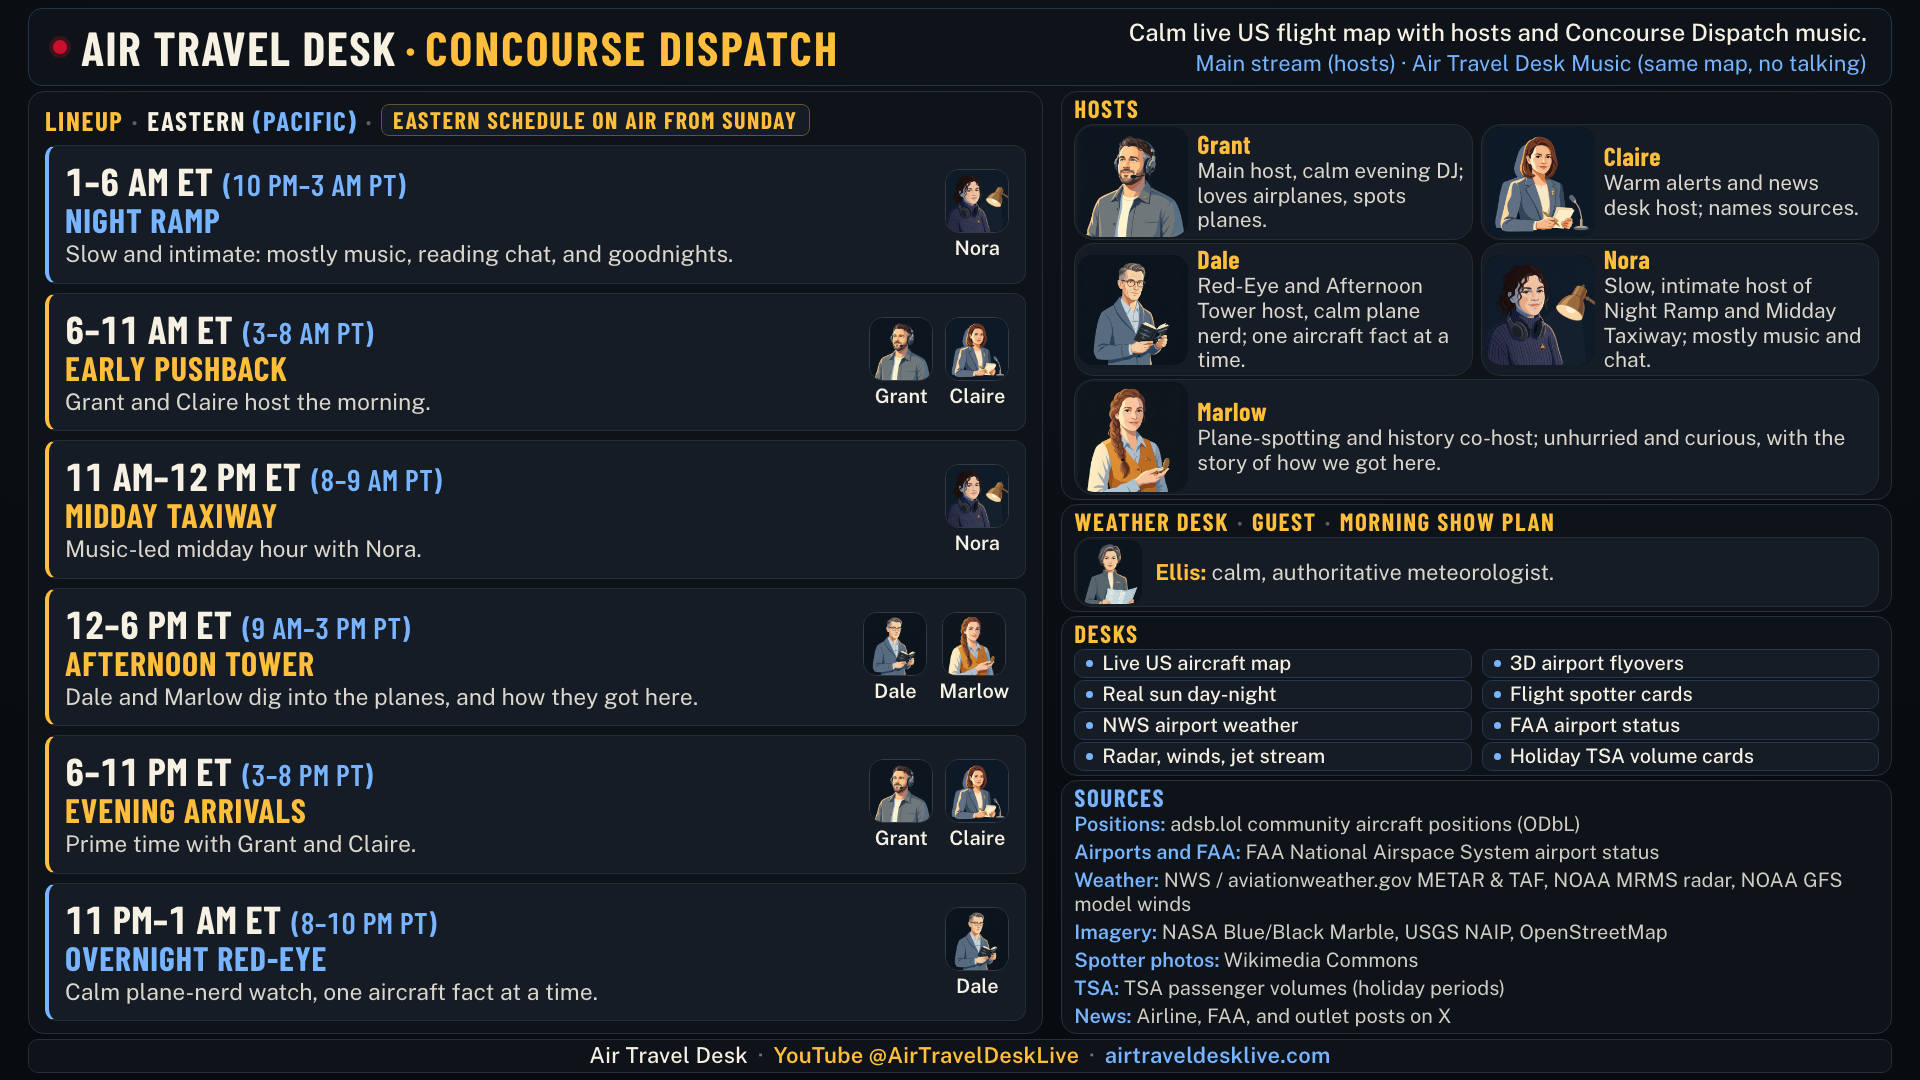
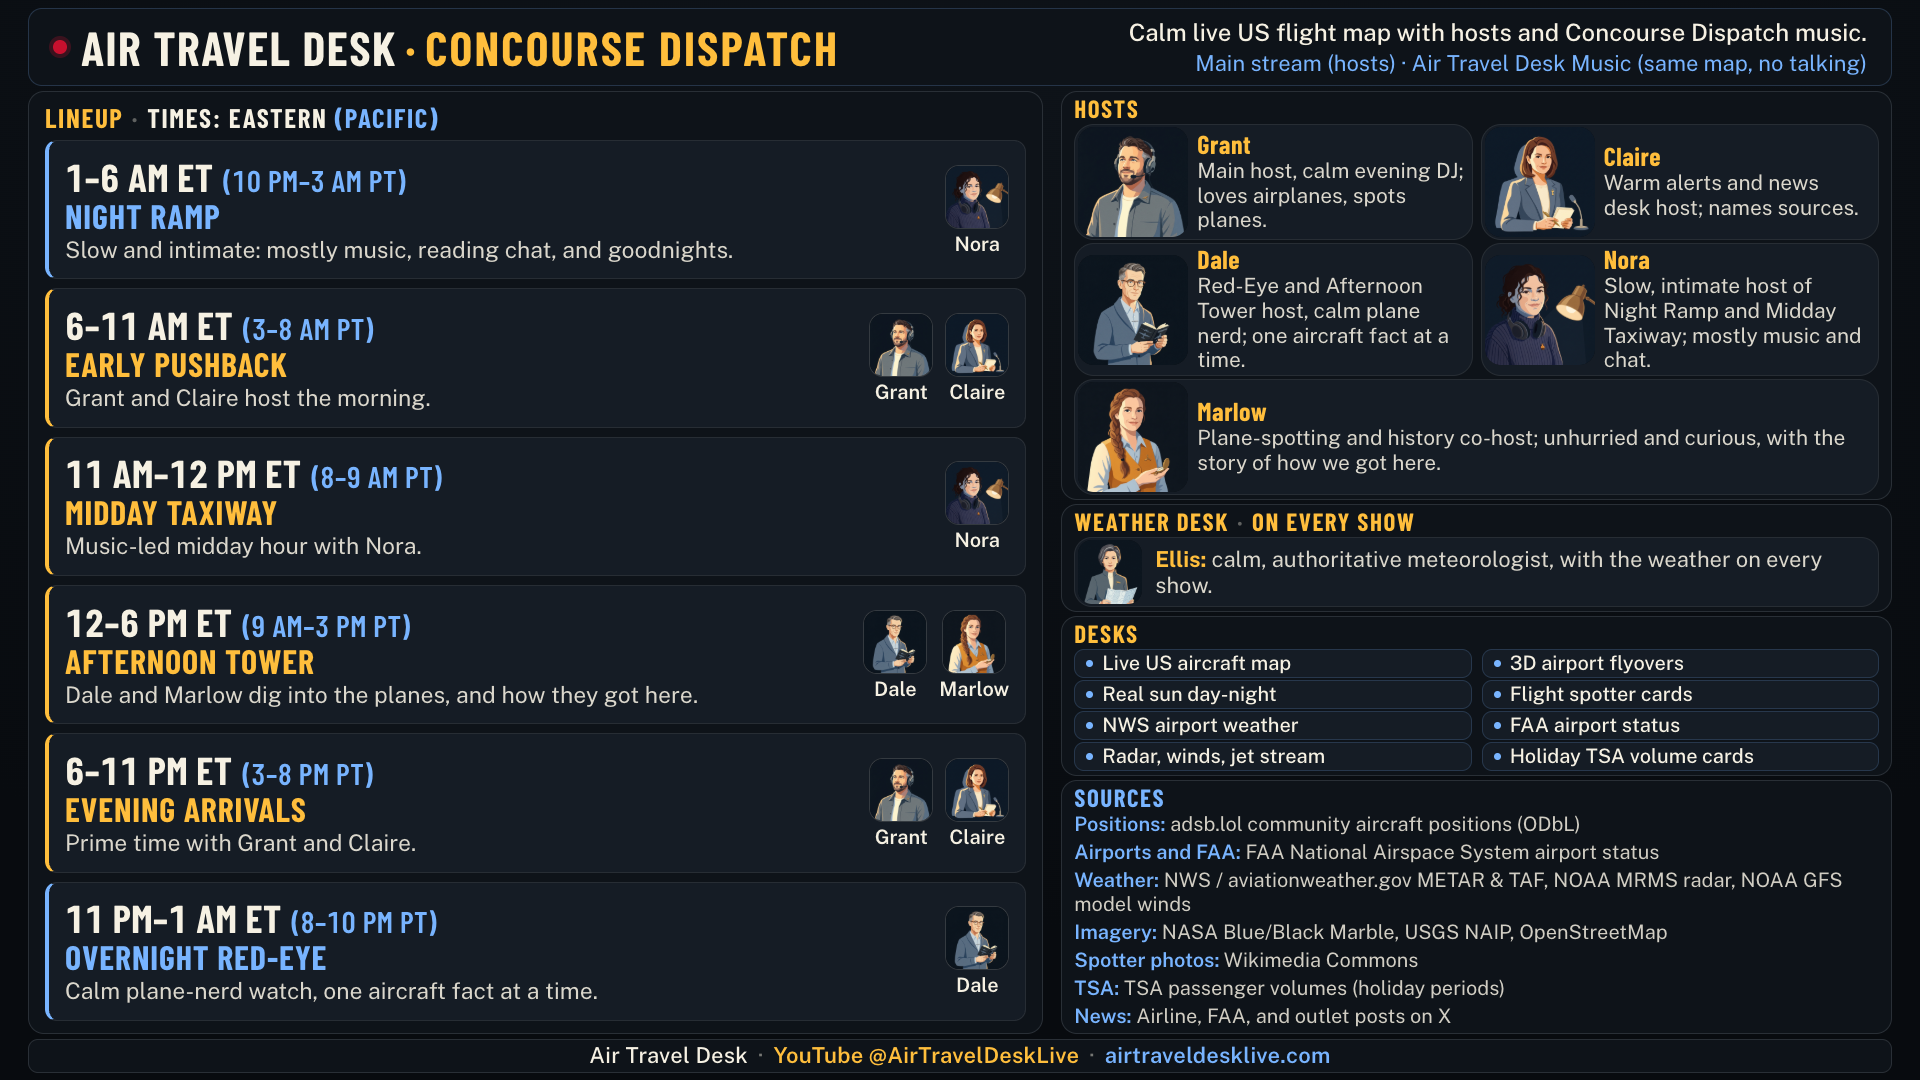
Shows page: Ellis is the weather desk on every show; drop the Sunday-start wording; refreshed lineup images (AN221b)

diff --git a/shows.html b/shows.html
@@ -319,7 +319,7 @@
     <main id="main-content">
       <article class="prose-card prose-card--wide">
         <h1>Show lineup</h1>
-        <p class="shows-intro">Air Travel Desk streams a live US flight map with hosts all day and night. Times are Eastern, with Pacific in brackets.</p>
+        <p class="shows-intro">Air Travel Desk streams a live US flight map with hosts all day and night. Ellis gives the weather on every show. Times are Eastern, with Pacific in brackets.</p>
         <p class="shows-intro">Two streams: the main stream (hosts) and Air Travel Desk Music (same map, no talking).</p>
 
         <ol class="schedule-list" role="list">
@@ -419,7 +419,7 @@
         </ol>
 
         <div class="schedule-notes">
-          <p>The Eastern schedule runs from Sunday 22 November 2026.</p>
+          <p>Times: Eastern (Pacific).</p>
           <p>Series name: CONCOURSE DISPATCH.</p>
         </div>
 
@@ -463,9 +463,9 @@
           <li class="host-card">
             <img class="avatar avatar--lg" src="assets/shows/avatar-ellis.webp" width="160" height="160" loading="lazy" alt="">
             <div class="host-body">
-              <span class="host-eyebrow">Weather desk · guest · morning show plan</span>
+              <span class="host-eyebrow">WEATHER DESK · ON EVERY SHOW</span>
               <strong class="host-name">Ellis</strong>
-              <p>Calm, authoritative meteorologist.</p>
+              <p>Calm, authoritative meteorologist, with the weather on every show.</p>
             </div>
           </li>
         </ul>
